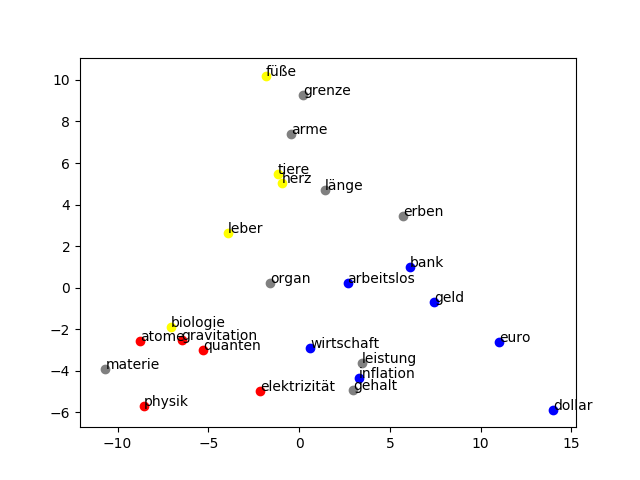
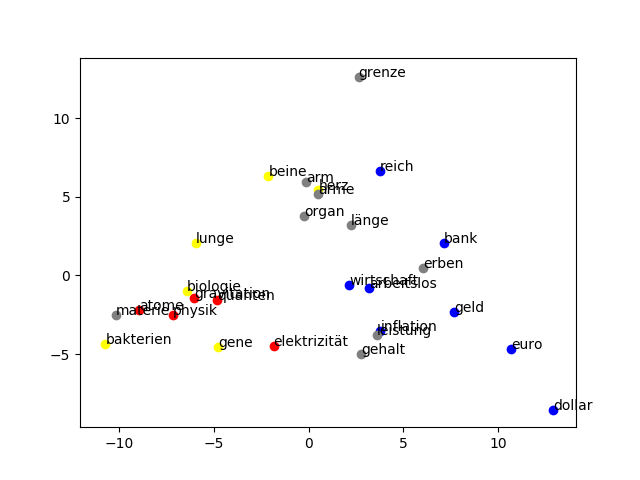
Add more and refined experiments and update resulting figures.

diff --git a/visualize_economy_naturalscience.py b/visualize_economy_naturalscience.py
@@ -11,7 +11,8 @@ economy_words = [
     "euro",
     "dollar",
     "inflation",
-    "arbeitslos"
+    "arbeitslos",
+    "reich"
 ]
 
 physics_words = [
@@ -24,10 +25,11 @@ physics_words = [
 
 biology_words = [
     "biologie",
-    "tiere",
-    "füße",
+    "gene",
+    "beine",
     "herz",
-    "leber"
+    "lunge",
+    "bakterien"
 ]
 
 naturalscience_words = physics_words + biology_words
@@ -40,6 +42,7 @@ combined_words = [
     "grenze",  # zwischen Ländern vs für Werte
     "organ",  # Institut vs Organ (Biologie)
     "arme",  # arme Personen vs Arme einer Person (Biologie)
+    "arm",
     "erben",  # Geld erben vs DNA erben (Biologie)
 ]
 
@@ -83,12 +86,54 @@ small_window_model = Word2Vec.load("small_window_model")
 plot_words(normal_window_model, "figs/normal_window_economy_naturalscience.png")
 plot_words(small_window_model, "figs/small_window_economy_naturalscience.png")
 
-print(normal_window_model.wv.most_similar(positive=["wirtschaft", "organ" ], topn=5))
-print(small_window_model.wv.most_similar(positive=["wirtschaft", "organ" ], topn=5))
-# [('verbandsorgan', 0.6706839799880981), ('unternehmertum', 0.6644313335418701), ('finanzwesen', 0.6638613939285278), ('agrarpolitik', 0.625726044178009), ('fachausschuss', 0.62508225440979)]
-# [('finanzwesen', 0.6784769296646118), ('frauenpolitik', 0.6730645895004272), ('bildungswesen', 0.6640677452087402), ('bildungspolitik', 0.6526181697845459), ('unternehmertum', 0.6525093913078308)]
+print(normal_window_model.wv.most_similar(positive=["leber", "herz", "lunge"], topn=5))
+print(small_window_model.wv.most_similar(positive=["leber", "herz", "lunge"], topn=5))
+# [('niere', 0.8039090633392334), ('nieren', 0.8003708124160767), ('magen', 0.78350430727005), ('milz', 0.7786546945571899), ('hirn', 0.776465117931366)]
+# [('niere', 0.7802958488464355), ('nieren', 0.7620891332626343), ('gebärmutter', 0.7612006068229675), ('milz', 0.7540740966796875), ('schilddrüse', 0.7426707744598389)]
 
-print(normal_window_model.wv.most_similar(positive=["biologie", "organ" ], topn=5))
-print(small_window_model.wv.most_similar(positive=["biologie", "organ" ], topn=5))
-# [('genetik', 0.7177324295043945), ('entomologie', 0.7023565173149109), ('virologie', 0.702241837978363), ('lehrbuch', 0.6861299276351929), ('mykologie', 0.6850222945213318)]
-# [('sportpädagogik', 0.6924142241477966), ('sozialmedizin', 0.6815182566642761), ('mykologie', 0.6803916692733765), ('sozialhygiene', 0.6773288249969482), ('psychologie', 0.6761468648910522)]
+print(normal_window_model.wv.most_similar(positive=["arm", "bein"], topn=5))
+print(small_window_model.wv.most_similar(positive=["arm", "bein"], topn=5))
+# [('unterarm', 0.8634679317474365), ('handgelenk', 0.8253477811813354), ('unterschenkel', 0.8162782192230225), ('oberschenkel', 0.8147163391113281), ('ellbogen', 0.8083438873291016)]
+# [('unterarm', 0.8030626773834229), ('handgelenk', 0.7994979619979858), ('oberarm', 0.7810859680175781), ('oberschenkel', 0.7748416066169739), ('knöchel', 0.7628743052482605)]
+
+print(normal_window_model.wv.most_similar(positive=["lebendig", "arm"], negative=["reich"], topn=5))
+print(small_window_model.wv.most_similar(positive=["lebendig", "arm"], negative=["reich"], topn=5))
+# [('leblos', 0.6285403966903687), ('versteinert', 0.6115909814834595), ('verkrüppelt', 0.6076324582099915), ('fürchterlich', 0.6031007766723633), ('geistesabwesend', 0.5885956883430481)]
+# [('leblos', 0.5918615460395813), ('verkrüppelt', 0.5835748314857483), ('gefesselt', 0.5736857652664185), ('sehend', 0.5733113288879395), ('oberkörper', 0.5618880391120911)]
+
+print(normal_window_model.similarity("arm", "bein"))
+print(normal_window_model.similarity("arm", "reich"))
+print(normal_window_model.similarity("arm", "besitzlos"))
+# 0.6806009454634425
+# 0.10973013916901389
+# 0.14481998860155842
+
+print(small_window_model.similarity("arm", "bein"))
+print(small_window_model.similarity("arm", "reich"))
+print(small_window_model.similarity("arm", "besitzlos"))
+# 0.6406667898287061
+# 0.25179555028233397
+# 0.1754358445531931
+
+print(normal_window_model.similarity("erben", "geld"))
+print(normal_window_model.similarity("erben", "gene"))
+print(normal_window_model.similarity("vererben", "geld"))
+print(normal_window_model.similarity("vererben", "gene"))
+# 0.37418759210127833
+# 0.07244948610288553
+# 0.3419726098723458
+# 0.1395088873826763
+
+print(small_window_model.similarity("erben", "geld"))
+print(small_window_model.similarity("erben", "gene"))
+print(small_window_model.similarity("vererben", "geld"))
+print(small_window_model.similarity("vererben", "gene"))
+# 0.41059506747134494
+# 0.10989564525191263
+# 0.42627524233988384
+# 0.18963249209746852
+
+print(normal_window_model.wv.most_similar(positive=["euro", "dollar", "yen"], topn=5))
+print(small_window_model.wv.most_similar(positive=["euro", "dollar", "yen"], topn=5))
+# [('gbp', 0.7996298670768738), ('rupien', 0.7676671743392944), ('peseten', 0.7548888325691223), ('chf', 0.7522148489952087), ('eur', 0.7432374954223633)]
+# [('peseten', 0.7984158992767334), ('gbp', 0.7947422862052917), ('rupien', 0.7789661288261414), ('rubel', 0.7781881093978882), ('pesos', 0.7672573328018188)]
